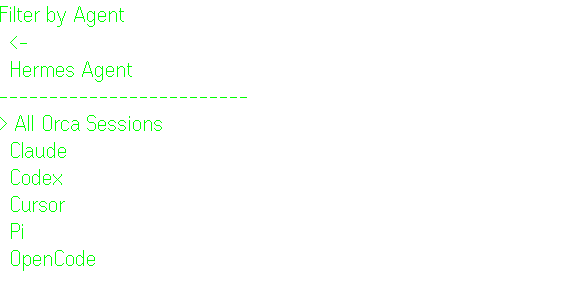
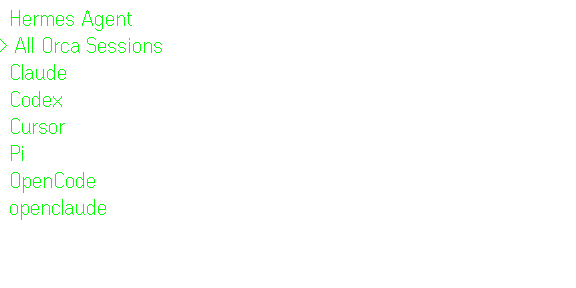
Refresh Even Hub listing for beta 1.0.49: description EN/JA and new screenshot set
Rewrite store/description.txt (1,975 chars) and add store/description.ja.txt
(not native-reviewed). Recapture all native screenshots from the fictional store
fixture (12 glasses images incl. small text, Compare fonts, choices, Japanese)
plus a phone companion capture; drop the inaccurate 6-actions image. Fixture
seeds the stored language from ?lang=. Gallery, README and listing note updated.

Agent: Claude Sonnet 5.5
Claude-Session: https://claude.ai/code/session_01TgtVS69ciZhi7ygcoUhxSJ

diff --git a/store/gallery.html b/store/gallery.html
@@ -15,34 +15,38 @@ figcaption{margin-top:12px;color:#bcc5be}strong{display:block;color:#f3f5f3;font
 </head>
 <body>
 <header><div class="eyebrow">Even Hub screenshots · version 1.0.36 · 05 November 2026</div>
-<h1>Orca Glass</h1><p>Read your Orca + Hermes sessions. Speak your next step.</p>
-<p class="intro">Eight native simulator captures using fictional data and the unchanged 1.0.36 app renderer. Each upload PNG is 576 × 288 pixels, composited onto black. No real conversations, credentials, usage or microphone audio appear.</p>
+<h1>Orca Glass</h1><p>Read your Orca and Hermes sessions. Speak your next step.</p>
+<p class="intro">Twelve native simulator captures (beta 1.0.49 renderer) using fictional data, plus one phone-page capture. Each upload PNG is 576 × 288 pixels, composited onto black. No real conversations, credentials, usage or microphone audio appear.</p>
 <a href="description.txt">Current description</a> · <a href="listing.md">Listing status</a>
-<p class="intro">Public 1.0.36 is live. These new screenshots are ready for manual upload. The corrected privacy PDF is still separate from the portal attachment.</p></header>
+<p class="intro">Public 1.0.36 is live. These screenshots are for the next listing refresh and are uploaded manually. The corrected privacy PDF is still separate from the portal attachment.</p></header>
 <main>
-<figure><a href="screenshots/1-threads.png"><img src="screenshots/1-threads.png" alt="Orca sessions"></a><figcaption><strong>01 · Orca sessions</strong>Workspace/agent labels and activity markers. <a href="screenshots/1-threads.png">Upload PNG</a> · <a href="screenshots/native/1-threads.png">Transparent original</a></figcaption></figure>
-<figure><a href="screenshots/2-answer.png"><img src="screenshots/2-answer.png" alt="Nine-row conversation reader"></a><figcaption><strong>02 · Nine-row conversation reader</strong>Native text, model/status row and page counter. <a href="screenshots/2-answer.png">Upload PNG</a> · <a href="screenshots/native/2-answer.png">Transparent original</a></figcaption></figure>
-<figure><a href="screenshots/3-reply.png"><img src="screenshots/3-reply.png" alt="Full-screen voice review"></a><figcaption><strong>03 · Full-screen voice review</strong>Review the fictional transcript before sending. <a href="screenshots/3-reply.png">Upload PNG</a> · <a href="screenshots/native/3-reply.png">Transparent original</a></figcaption></figure>
-<figure><a href="screenshots/4-usage.png"><img src="screenshots/4-usage.png" alt="Usage and reset times"></a><figcaption><strong>04 · Usage and reset times</strong>Fictional Codex, Claude and Cursor allowances. <a href="screenshots/4-usage.png">Upload PNG</a> · <a href="screenshots/native/4-usage.png">Transparent original</a></figcaption></figure>
-<figure><a href="screenshots/5-workspaces.png"><img src="screenshots/5-workspaces.png" alt="Orca workspace filter"></a><figcaption><strong>05 · Orca workspace filter</strong>Recent workspaces and multiple selection. <a href="screenshots/5-workspaces.png">Upload PNG</a> · <a href="screenshots/native/5-workspaces.png">Transparent original</a></figcaption></figure>
-<figure><a href="screenshots/7-agent-filter.png"><img src="screenshots/7-agent-filter.png" alt="Separate agent filters"></a><figcaption><strong>06 · Separate agent filters</strong>Hermes Agent and the Orca harnesses. <a href="screenshots/7-agent-filter.png">Upload PNG</a> · <a href="screenshots/native/7-agent-filter.png">Transparent original</a></figcaption></figure>
-<figure><a href="screenshots/8-hermes-workspaces.png"><img src="screenshots/8-hermes-workspaces.png" alt="Hermes workspace filter"></a><figcaption><strong>07 · Hermes workspace filter</strong>Bots, Sessions and Scheduled jobs. <a href="screenshots/8-hermes-workspaces.png">Upload PNG</a> · <a href="screenshots/native/8-hermes-workspaces.png">Transparent original</a></figcaption></figure>
-<figure><a href="screenshots/9-hermes-sessions.png"><img src="screenshots/9-hermes-sessions.png" alt="Hermes sessions"></a><figcaption><strong>08 · Hermes sessions</strong>Hermes conversations remain separate from Orca. <a href="screenshots/9-hermes-sessions.png">Upload PNG</a> · <a href="screenshots/native/9-hermes-sessions.png">Transparent original</a></figcaption></figure>
+<figure><a href="screenshots/1-threads.png"><img src="screenshots/1-threads.png" alt="Orca and Hermes agents with models"></a><figcaption><strong>01 · Orca and Hermes agents with models</strong>Ten fictional sessions across Cursor, Pi, Claude, Codex, OpenCode and OpenClaude, with workspace/agent labels. <a href="screenshots/1-threads.png">Upload PNG</a> · <a href="screenshots/native/1-threads.png">Transparent original</a></figcaption></figure>
+<figure><a href="screenshots/2-answer.png"><img src="screenshots/2-answer.png" alt="Reader, native text"></a><figcaption><strong>02 · Reader, native text</strong>Book-style page, model and status row, page counter. <a href="screenshots/2-answer.png">Upload PNG</a> · <a href="screenshots/native/2-answer.png">Transparent original</a></figcaption></figure>
+<figure><a href="screenshots/10-small-text.png"><img src="screenshots/10-small-text.png" alt="Reader, small pixel font"></a><figcaption><strong>03 · Reader, small pixel font</strong>Terminus 6x12: aligned Markdown table and hanging indents. <a href="screenshots/10-small-text.png">Upload PNG</a> · <a href="screenshots/native/10-small-text.png">Transparent original</a></figcaption></figure>
+<figure><a href="screenshots/11-compare-fonts.png"><img src="screenshots/11-compare-fonts.png" alt="Compare fonts"></a><figcaption><strong>04 · Compare fonts</strong>All pixel fonts side by side. <a href="screenshots/11-compare-fonts.png">Upload PNG</a> · <a href="screenshots/native/11-compare-fonts.png">Transparent original</a></figcaption></figure>
+<figure><a href="screenshots/3-reply.png"><img src="screenshots/3-reply.png" alt="Voice review"></a><figcaption><strong>05 · Voice review</strong>Review the fictional transcript; click to send, double-click to cancel. <a href="screenshots/3-reply.png">Upload PNG</a> · <a href="screenshots/native/3-reply.png">Transparent original</a></figcaption></figure>
+<figure><a href="screenshots/12-choices.png"><img src="screenshots/12-choices.png" alt="Choices"></a><figcaption><strong>06 · Choices</strong>Numbered prompt with a question and options. <a href="screenshots/12-choices.png">Upload PNG</a> · <a href="screenshots/native/12-choices.png">Transparent original</a></figcaption></figure>
+<figure><a href="screenshots/7-agent-filter.png"><img src="screenshots/7-agent-filter.png" alt="Filter by Agent"></a><figcaption><strong>07 · Filter by Agent</strong>Hermes Agent and the Orca harnesses. <a href="screenshots/7-agent-filter.png">Upload PNG</a> · <a href="screenshots/native/7-agent-filter.png">Transparent original</a></figcaption></figure>
+<figure><a href="screenshots/5-workspaces.png"><img src="screenshots/5-workspaces.png" alt="Filter by Workspace"></a><figcaption><strong>08 · Filter by Workspace</strong>Recent workspaces and multiple selection. <a href="screenshots/5-workspaces.png">Upload PNG</a> · <a href="screenshots/native/5-workspaces.png">Transparent original</a></figcaption></figure>
+<figure><a href="screenshots/4-usage.png"><img src="screenshots/4-usage.png" alt="Usage and reset times"></a><figcaption><strong>09 · Usage and reset times</strong>Fictional Codex, Claude and Cursor allowances. <a href="screenshots/4-usage.png">Upload PNG</a> · <a href="screenshots/native/4-usage.png">Transparent original</a></figcaption></figure>
+<figure><a href="screenshots/8-hermes-workspaces.png"><img src="screenshots/8-hermes-workspaces.png" alt="Hermes workspace filter"></a><figcaption><strong>10 · Hermes workspace filter</strong>Bots, Sessions and Scheduled jobs. <a href="screenshots/8-hermes-workspaces.png">Upload PNG</a> · <a href="screenshots/native/8-hermes-workspaces.png">Transparent original</a></figcaption></figure>
+<figure><a href="screenshots/9-hermes-sessions.png"><img src="screenshots/9-hermes-sessions.png" alt="Hermes sessions"></a><figcaption><strong>11 · Hermes sessions</strong>Hermes conversations stay separate from Orca. <a href="screenshots/9-hermes-sessions.png">Upload PNG</a> · <a href="screenshots/native/9-hermes-sessions.png">Transparent original</a></figcaption></figure>
+<figure><a href="screenshots/13-japanese.png"><img src="screenshots/13-japanese.png" alt="Japanese interface"></a><figcaption><strong>12 · Japanese interface</strong>Session list with the phone language set to Japanese. <a href="screenshots/13-japanese.png">Upload PNG</a> · <a href="screenshots/native/13-japanese.png">Transparent original</a></figcaption></figure>
+<figure><a href="screenshots/phone-companion.png"><img src="screenshots/phone-companion.png" alt="Phone companion" style="max-width:260px"></a><figcaption><strong>13 · Phone companion (not a glasses capture)</strong>Filters and Usage on the phone, demo data. <a href="screenshots/phone-companion.png">PNG</a></figcaption></figure>
 </main>
-<section class="profile"><h2>Profile description and attribution</h2><!-- profile:start --><pre>Read your Orca + Hermes sessions. Speak your next step.
+<section class="profile"><h2>Profile description and attribution</h2><!-- profile:start --><pre>Read your Orca and Hermes sessions. Speak your next step.
 
-Orca Glass connects G2 glasses to agents running in Orca on your Windows PC, and to Hermes Agent. Read conversations, see working/waiting status and the model, and review spoken replies before sending.
+Orca Glass connects Even Realities G2 glasses to agents running in Orca on your Windows or macOS PC, and to Hermes Agent. Read conversations, see working or waiting status with the model name, filter by agent and workspace, and review spoken replies before sending.
 
-Version 1.0.36:
-- Filter by agent: Hermes Agent, or All Orca Sessions / Claude / Codex / other Orca agents. Hermes and Orca sessions stay separate.
-- Filter by workspace: Orca shows recent workspaces first, then the rest; Hermes shows Bots, Sessions and Scheduled jobs.
-- Conversations open at the start of the latest reply. Nine rows per page; swipe for pages, swipe down on the last page to refresh. One status row shows state, model and page, e.g. /Waiting Opus5.5 Pg7/8.
-- Hold to open a full-screen voice page that is already listening; release to review, click to send, double-click to cancel. Whisper runs locally on your PC and ignores silence.
-- For numbered prompts, click for choices or speak an option number, then confirm.
-- View Codex, Claude and Cursor usage; toggle resets between computer time, phone time and time remaining.
-- Start Codex in an existing Orca workspace.
+Since public 1.0.36 (beta 1.0.49):
+- Agents: Claude, Codex, Cursor, OpenCode, Pi, OpenClaude and Hermes Agent (bots, sessions and scheduled jobs). Answer single-select Hermes clarify questions from the glasses when the gateway still shows that prompt.
+- Reader: book-style pages open at the start of the latest reply. Swipe for pages; swipe down on the last page to refresh. Hanging indents on wrapped lines. Markdown tables line up in small-text mode. Pixel fonts: Scientifica, GohuFont, Terminus, Shinonome, Misc Fixed, Departure 7x11 and 7x14, plus Native text and a Compare fonts screen. Scanner-sweep thinking indicator in tile mode (native keeps Braille).
+- Filter by Agent and Filter by Workspace on the glasses and the phone companion. Usage for Codex, Claude and Cursor; reset times in Computer, Phone or Absolute mode.
+- Voice: hold to open a full-screen voice page; local Whisper on your PC with silence detection. Release to review, click to send, double-click to cancel.
+- English and Japanese (switch in the phone app). Shinonome supports Japanese in small-text mode.
+- macOS bridge setup and automated smoke tests are new; pairing on a real Mac is not yet verified.
 
-Requires G2, the Even Realities Android app, Orca and the companion Windows bridge. The packaged connection targets a configured private PC over Tailscale; arbitrary-PC setup is not yet self-service. Agents run on your PC, not the glasses. English only. Try the demo without a PC.
+Requires G2, the Even Realities Android app, Orca and the companion bridge. The packaged connection targets a configured private PC over Tailscale; arbitrary-PC self-service setup is not offered yet. Agents run on your PC, not the glasses. Try the demo without a PC.
 
 Source/setup: https://github.com/eugene8080/orca-glass/tree/windows-android-codex
 Independent Windows/Android fork of 2ero20ne&#x27;s Orca Glass under MIT.

diff --git a/store/listing.md b/store/listing.md
@@ -135,7 +135,53 @@ Name, tagline and description saved through the authenticated Even Hub CLI on 20
 
 The description and README credit the original author and link the upstream project. Root `LICENSE` retains `Copyright (c) 2026 2ero20ne` and the full MIT text. `app/vite.config.ts` now emits `LICENSE.txt` and `ATTRIBUTION.txt` in production builds; the built license was checked byte-for-byte against the original. This packaging change is not yet in beta1.0.21; include it in the next release candidate.
 
-## Screenshots — 1.0.36
+## Listing refresh, 2026-11-10 (beta 1.0.49)
+
+Agent: Claude Sonnet 5.5, continuing a stopped Cursor agent's uncommitted work (brief:
+`docs/store-listing-task.md`). Eugene pastes the description and uploads the images in the
+portal himself; no agent opened the portal or a browser.
+
+- Description: `store/description.txt`, 1,975 characters (portal limit 2,000, see above).
+  Covers agents with models, reader, small pixel fonts, filters, usage, voice, English and
+  Japanese, Windows and macOS (macOS stated as not yet verified on a real Mac). The
+  Cursor draft was kept after a fact check against the code and `CLAUDE.md`.
+- Japanese: `store/description.ja.txt`, 1,095 characters. **Not reviewed by a native
+  speaker.** Machine-written from the English text; have a Japanese reader check it.
+- Upload PNGs (576x288, opaque, in `store/screenshots/`; transparent originals in `native/`):
+
+| File | Shows |
+| --- | --- |
+| `1-threads.png` | Session list: Cursor, Pi, Claude, Codex, OpenCode, OpenClaude, workspace/agent labels |
+| `2-answer.png` | Reader, native text, model and status row (OpenClaude, GPT-5.6 Sol high) |
+| `10-small-text.png` | Reader in Terminus 6x12: aligned Markdown table, hanging indents |
+| `11-compare-fonts.png` | Compare fonts: all six pixel fonts, Departure at both sizes |
+| `3-reply.png` | Voice review (fictional transcript, tap to send) |
+| `12-choices.png` | Numbered choices with question (Claude, Opus 5.5) |
+| `7-agent-filter.png` | Filter by Agent, with Hermes Agent |
+| `5-workspaces.png` | Filter by Workspace, Recent and Other workspaces |
+| `4-usage.png` | Usage, Computer-time reset mode |
+| `8-hermes-workspaces.png` | Hermes Bots / Sessions / Scheduled jobs |
+| `9-hermes-sessions.png` | Hermes session list |
+| `13-japanese.png` | Session list with the interface language set to Japanese |
+| `phone-companion.png` | Phone companion page (420x900, headless localhost capture of the phone preview with its own demo data; not a glasses capture) |
+
+- Removed: `6-actions.png` (the simulator omits the G2 system entries, so it was never accurate).
+  The README table and `store/gallery.html` now list this set.
+- Not produced: a real-device photo; a Japanese reader screen in Shinonome (the fixture
+  conversations are English only); Thinking indicator and the Departure-only shots.
+- Not verified: how the portal accepts 12 images (earlier sets used 8); the Japanese text
+  reading; the phone page on a real phone; macOS on a real Mac.
+- Capture recipe: start `node scripts/store-preview.mjs` (8792) and the simulator on
+  `http://127.0.0.1:8792/?code=demo&lang=en` with `--automation-port 9899` in named Orca
+  tabs, run `node scripts/store-capture-all.mjs`, then `python scripts/store-previews.py`.
+  For `13-japanese` restart the simulator with `&lang=ja` and run
+  `node scripts/store-capture.mjs 13-japanese`, then restart it with `&lang=en`.
+  The fixture seeds the stored language from `?lang=`.
+- Pitfall: the simulator capture holds solid green in RGB; the text is in alpha. A fully
+  transparent capture means the app exited (two double-clicks from the session list), not
+  that the capture tool is broken. Restart the simulator.
+
+## Screenshots — 1.0.36 (superseded by the refresh above)
 
 Eight current upload files, using the real native app renderer and fictional data.
 No real chats, account usage, credentials or microphone audio. Not G2 photographs.

diff --git a/README.md b/README.md
@@ -36,13 +36,15 @@ still need verification. See [implementation](docs/hermes-bridge.md).
 
 ## Screenshots
 
-Historical native 576 × 288 simulator captures of 1.0.21 with fictional sample data. Current beta menus and usage controls include the later changes described above.
+Native 576 × 288 simulator captures of beta 1.0.49 with fictional sample data (see the [gallery](store/gallery.html)).
 
-| Sessions | Conversation | Voice review |
+| Sessions | Conversation | Small pixel font |
 | --- | --- | --- |
-| ![Sessions](store/screenshots/1-threads.png) | ![Conversation](store/screenshots/2-answer.png) | ![Voice review](store/screenshots/3-reply.png) |
-| **Usage** | **Workspace picker** | **App actions** |
-| ![Usage](store/screenshots/4-usage.png) | ![Workspace picker](store/screenshots/5-new-session.png) | ![App actions](store/screenshots/6-actions.png) |
+| ![Sessions](store/screenshots/1-threads.png) | ![Conversation](store/screenshots/2-answer.png) | ![Small text](store/screenshots/10-small-text.png) |
+| **Compare fonts** | **Voice review** | **Choices** |
+| ![Compare fonts](store/screenshots/11-compare-fonts.png) | ![Voice review](store/screenshots/3-reply.png) | ![Choices](store/screenshots/12-choices.png) |
+| **Usage** | **Workspace filter** | **Japanese** |
+| ![Usage](store/screenshots/4-usage.png) | ![Workspace filter](store/screenshots/5-workspaces.png) | ![Japanese](store/screenshots/13-japanese.png) |
 
 The simulator omits OS contextual entries. See [store profile/capture instructions](store/listing.md) for raw exports, the local gallery and remaining public-release preparation.
 
